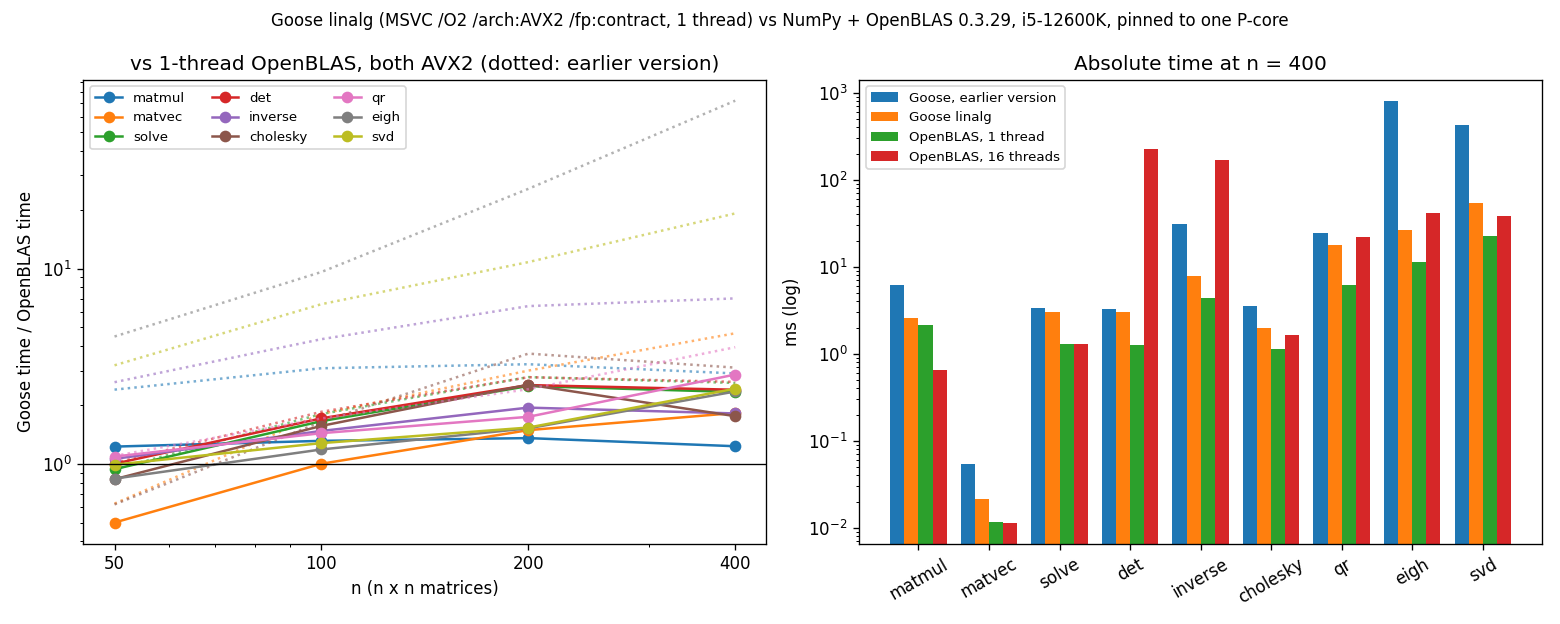
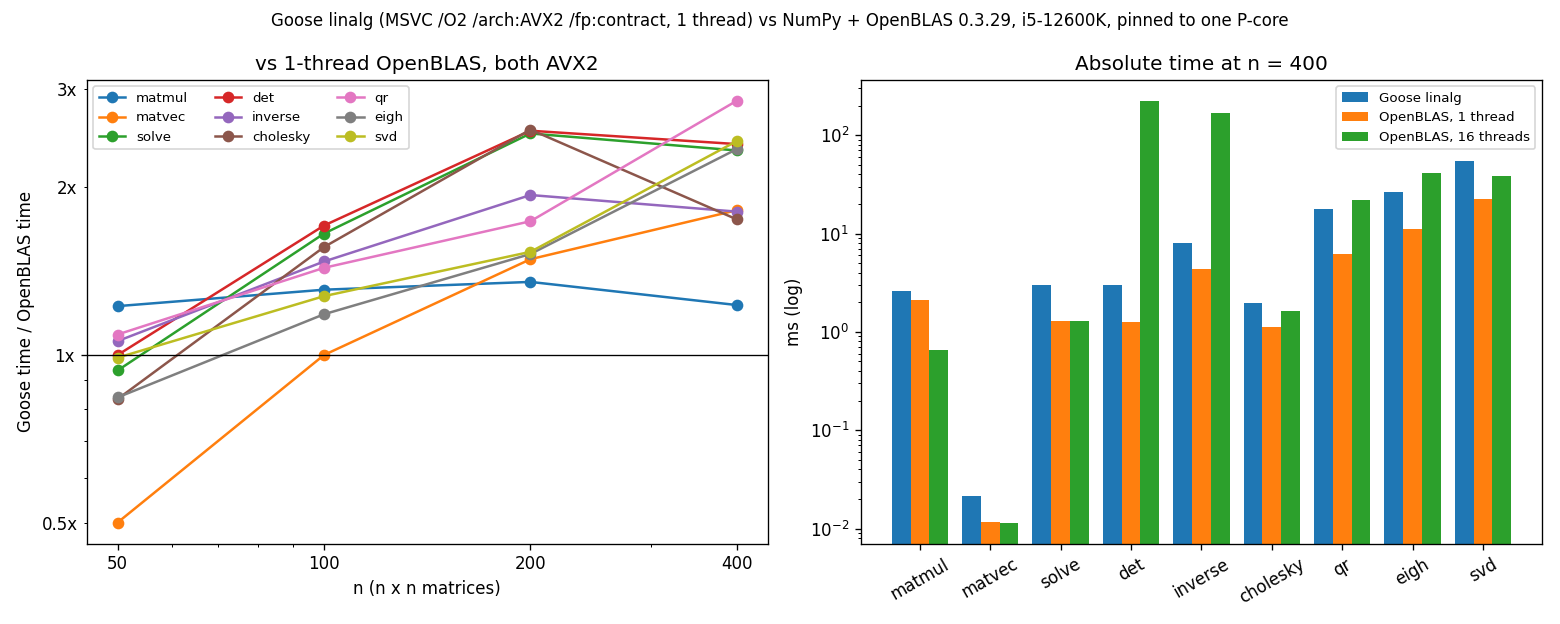
Chart: compare against OpenBLAS only
The earlier-version series is now opt-in (compare.py --with-prev); the
ratio axis gets plain labels.

diff --git a/bench/compare.py b/bench/compare.py
@@ -1,16 +1,17 @@
 """Compare the Goose runs against OpenBLAS: a table and compare.png.
 
-    python compare.py      (in this directory, after run_pinned.ps1)
+    python compare.py [--with-prev]      (in this directory, after run_pinned.ps1)
 
 The headline comparison is production against production: Goose built with
 /arch:AVX2 /fp:contract (bench_goose_avx2.csv) against single-threaded
 OpenBLAS (bench_lapack_1t.csv), both pinned to one P-core. Other runs are
 shown when their CSVs exist: bench_goose_prev_avx2.csv (an earlier version,
-same flags), bench_goose_base.csv (plain /O2), bench_goose_fast.csv
+same flags; in the table always, in the chart only with --with-prev), bench_goose_base.csv (plain /O2), bench_goose_fast.csv
 (/fp:fast, reference only) and bench_lapack_mt.csv (all cores).
 """
 import csv
 import os
+import sys
 import matplotlib
 matplotlib.use("Agg")
 import matplotlib.pyplot as plt
@@ -26,6 +27,7 @@ def load(path):
 
 now = load("bench_goose_avx2.csv")
 prev = load("bench_goose_prev_avx2.csv")
+chart_prev = prev if "--with-prev" in sys.argv else None
 base = load("bench_goose_base.csv")
 fast = load("bench_goose_fast.csv")
 one = load("bench_lapack_1t.csv")
@@ -54,17 +56,19 @@ fig, ax = plt.subplots(1, 2, figsize=(13, 5.2))
 colors = plt.cm.tab10.colors
 for i, op in enumerate(ops):
     ax[0].plot(sizes, [now[(op, n)] / one[(op, n)] for n in sizes], "o-", color=colors[i], label=op)
-    if prev:
-        ax[0].plot(sizes, [prev[(op, n)] / one[(op, n)] for n in sizes], ":", color=colors[i], alpha=0.6)
+    if chart_prev:
+        ax[0].plot(sizes, [chart_prev[(op, n)] / one[(op, n)] for n in sizes], ":", color=colors[i], alpha=0.6)
 ax[0].axhline(1, color="k", lw=0.8)
 ax[0].set(xscale="log", yscale="log", xlabel="n (n x n matrices)", ylabel="Goose time / OpenBLAS time",
-          title="vs 1-thread OpenBLAS, both AVX2 (dotted: earlier version)")
+          title="vs 1-thread OpenBLAS, both AVX2" + (" (dotted: earlier version)" if chart_prev else ""))
 ax[0].set_xticks(sizes, [str(n) for n in sizes])
 ax[0].xaxis.set_minor_formatter(matplotlib.ticker.NullFormatter())
+ax[0].yaxis.set_major_formatter(matplotlib.ticker.FuncFormatter(lambda v, _: f"{v:g}x"))
+ax[0].yaxis.set_minor_formatter(matplotlib.ticker.FuncFormatter(lambda v, _: f"{v:g}x" if v in (0.5, 2, 3, 5) else ""))
 ax[0].legend(ncol=3, fontsize=8)
 
 n = sizes[-1]
-series = [(name, data) for name, data in [("Goose, earlier version", prev), ("Goose linalg", now),
+series = [(name, data) for name, data in [("Goose, earlier version", chart_prev), ("Goose linalg", now),
                                           ("OpenBLAS, 1 thread", one), ("OpenBLAS, 16 threads", multi)] if data]
 w = 0.8 / len(series)
 for s, (name, data) in enumerate(series):

diff --git a/README.md b/README.md
@@ -100,10 +100,8 @@ i5-12600K.
 
 ![Goose linalg against OpenBLAS](docs/benchmark.png)
 
-On the left is the time ratio to OpenBLAS at each size; 1.0 means parity. The dotted lines are an
-earlier version of this package built with the same flags (commit `c7ddf93`), before the lane
-kernels, the blocked `matmul`, and the QL `eigh` and Golub-Kahan `svd`. On the right are absolute
-times at n = 400:
+On the left is the time ratio to OpenBLAS at each size; 1x means parity. On the right are
+absolute times at n = 400:
 
 | | matmul | solve | inverse | cholesky | qr | eigh | svd |
 |---|---|---|---|---|---|---|---|
